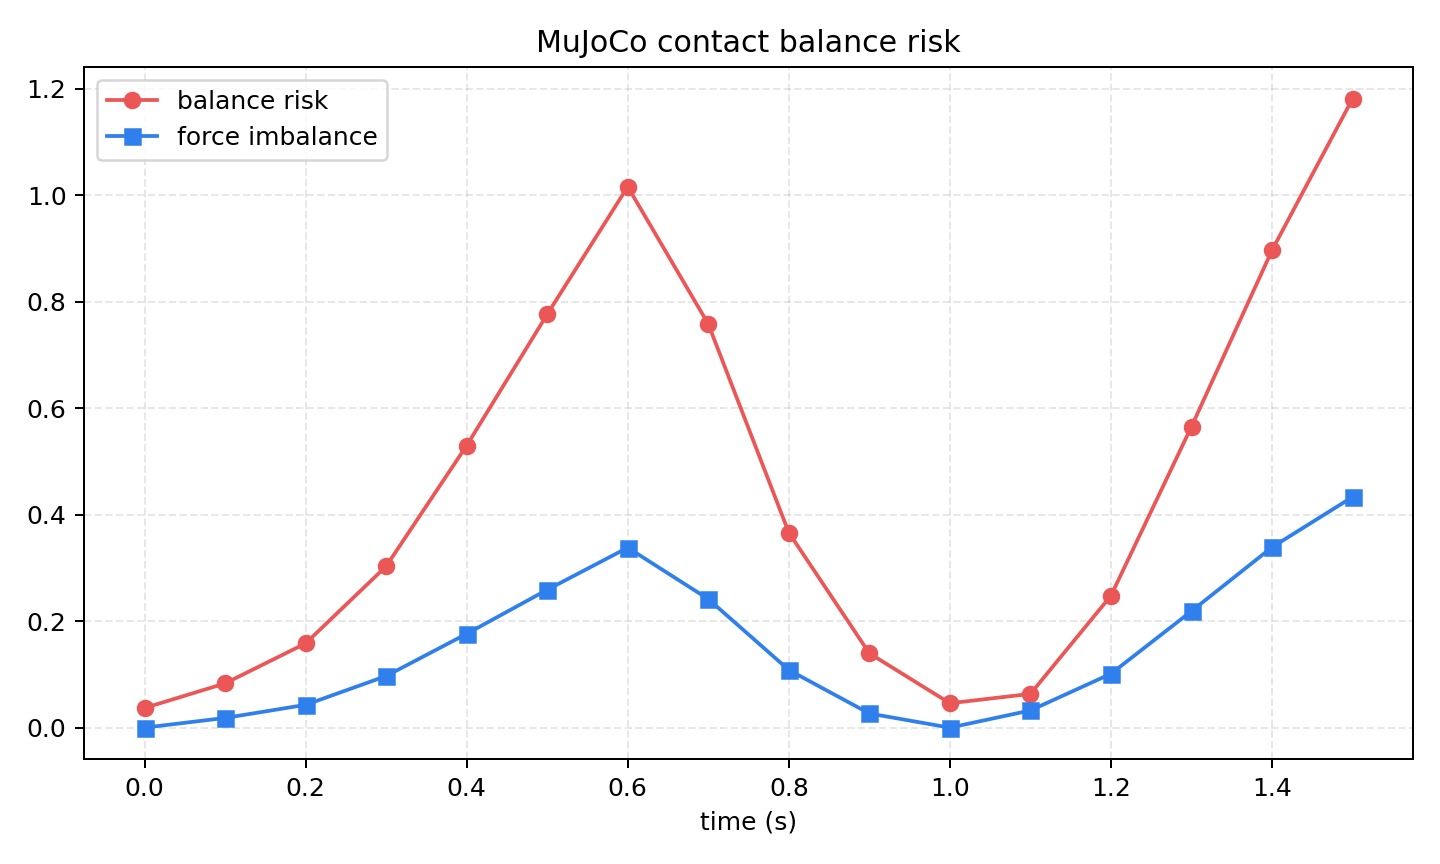
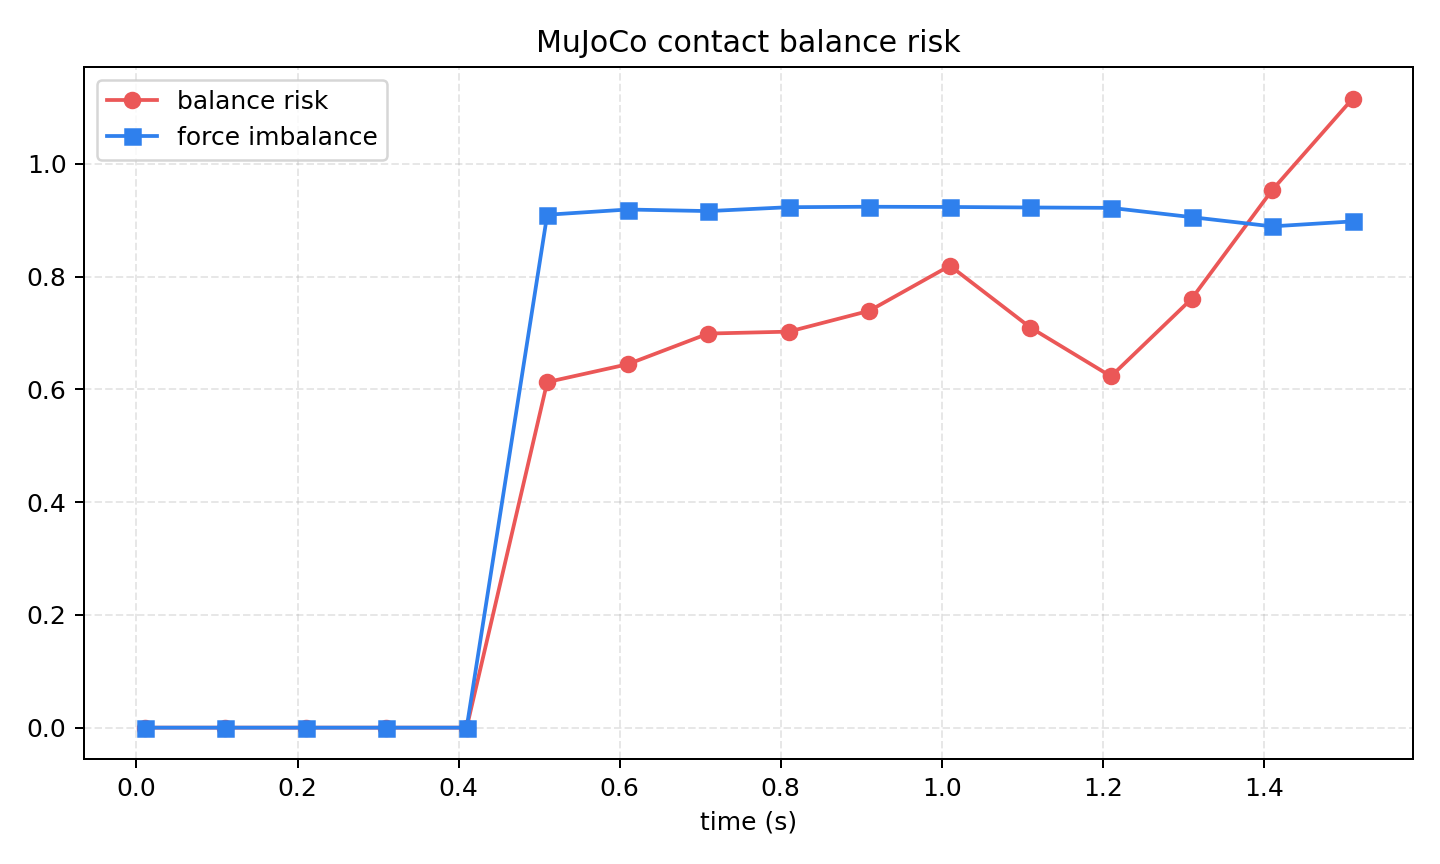
Generate contact balance data with MuJoCo Python

diff --git a/src/mujoco_contact_balance_analyzer/generate_mujoco_contact_data.py b/src/mujoco_contact_balance_analyzer/generate_mujoco_contact_data.py
@@ -1,0 +1,80 @@
+"""Generate contact-balance data by stepping the MuJoCo MJCF model.
+
+This script requires the official ``mujoco`` Python package. It loads
+``mujoco_quadruped_balance.xml``, steps the simulator, and exports MuJoCo
+``sensordata`` plus ``cfrc_ext``-style contact force records.
+"""
+
+from __future__ import annotations
+
+import argparse
+import csv
+from pathlib import Path
+
+import numpy as np
+
+
+HERE = Path(__file__).resolve().parent
+MJCF = HERE / "sample_data" / "mujoco_quadruped_balance.xml"
+OUT = HERE / "sample_data" / "mujoco_sensor_export.csv"
+
+
+def generate(output: Path = OUT, model_path: Path = MJCF, steps: int = 160, stride: int = 10) -> Path:
+    import mujoco
+
+    model = mujoco.MjModel.from_xml_path(str(model_path))
+    data = mujoco.MjData(model)
+
+    left_front = mujoco.mj_name2id(model, mujoco.mjtObj.mjOBJ_BODY, "left_front_foot")
+    right_front = mujoco.mj_name2id(model, mujoco.mjtObj.mjOBJ_BODY, "right_front_foot")
+    left_rear = mujoco.mj_name2id(model, mujoco.mjtObj.mjOBJ_BODY, "left_rear_foot")
+    right_rear = mujoco.mj_name2id(model, mujoco.mjtObj.mjOBJ_BODY, "right_rear_foot")
+
+    data.qpos[:7] = np.array([0.0, 0.0, 0.535, 1.0, 0.0, 0.0, 0.0])
+    rows = []
+    for step in range(steps):
+        if 45 <= step < 75:
+            data.xfrc_applied[1, 0] = 38.0
+            data.xfrc_applied[1, 1] = 22.0
+        elif 115 <= step < 145:
+            data.xfrc_applied[1, 0] = -34.0
+            data.xfrc_applied[1, 1] = -28.0
+        else:
+            data.xfrc_applied[:] = 0.0
+        mujoco.mj_step(model, data)
+        if step % stride == 0:
+            qmat = np.zeros(9)
+            mujoco.mju_quat2Mat(qmat, data.qpos[3:7])
+            roll_rate = float(data.qvel[3])
+            rows.append({
+                "time_s": round(float(data.time), 3),
+                "sensordata_com_x": round(float(data.sensordata[0]), 5),
+                "sensordata_com_y": round(float(data.sensordata[1]), 5),
+                "sensordata_com_z": round(float(data.sensordata[2]), 5),
+                "cfrc_lf_z": round(abs(float(data.sensordata[5])), 5),
+                "cfrc_rf_z": round(abs(float(data.sensordata[8])), 5),
+                "cfrc_lr_z": round(abs(float(data.sensordata[11])), 5),
+                "cfrc_rr_z": round(abs(float(data.sensordata[14])), 5),
+                "qvel_roll": round(roll_rate, 5),
+                "solver_niter": int(data.solver_niter[0]),
+            })
+
+    output.parent.mkdir(parents=True, exist_ok=True)
+    with output.open("w", newline="", encoding="utf-8") as f:
+        writer = csv.DictWriter(f, fieldnames=list(rows[0].keys()))
+        writer.writeheader()
+        writer.writerows(rows)
+    return output
+
+
+def main() -> None:
+    parser = argparse.ArgumentParser()
+    parser.add_argument("--output", type=Path, default=OUT)
+    parser.add_argument("--model", type=Path, default=MJCF)
+    args = parser.parse_args()
+    path = generate(args.output, args.model)
+    print(f"generated {path}")
+
+
+if __name__ == "__main__":
+    main()

diff --git a/src/mujoco_contact_balance_analyzer/contact_balance.py b/src/mujoco_contact_balance_analyzer/contact_balance.py
@@ -17,6 +17,21 @@ def load_rows(path: Path=DATA) -> list[dict[str,float]]:
 def load_sensor_rows(path: Path=SENSOR_DATA) -> list[dict[str,float]]:
     with path.open(newline="",encoding="utf-8") as f: return [{k:float(v) for k,v in r.items()} for r in csv.DictReader(f)]
 
+def sensor_rows_to_balance_rows(rows: list[dict[str,float]]) -> list[dict[str,float]]:
+    converted=[]
+    for r in rows:
+        converted.append({
+            "time_s": r["time_s"],
+            "left_front_n": r["cfrc_lf_z"],
+            "right_front_n": r["cfrc_rf_z"],
+            "left_rear_n": r["cfrc_lr_z"],
+            "right_rear_n": r["cfrc_rr_z"],
+            "com_x_m": r["sensordata_com_x"],
+            "com_y_m": r["sensordata_com_y"],
+            "torso_roll_deg": r["qvel_roll"] * 10.0,
+        })
+    return converted
+
 def parse_mjcf(path: Path=MJCF) -> dict[str, int | str]:
     root=ET.parse(path).getroot()
     sensors=root.findall(".//sensor/*")
@@ -27,7 +42,8 @@ def analyze(rows: list[dict[str,float]]) -> list[dict[str,float|str]]:
     out=[]
     for r in rows:
         left=r["left_front_n"]+r["left_rear_n"]; right=r["right_front_n"]+r["right_rear_n"]; total=left+right
-        imbalance=abs(left-right)/total; com_shift=np.hypot(r["com_x_m"],r["com_y_m"]); roll=abs(r["torso_roll_deg"])
+        imbalance=0.0 if total <= 1e-9 else abs(left-right)/total
+        com_shift=np.hypot(r["com_x_m"],r["com_y_m"]); roll=abs(r["torso_roll_deg"])
         risk=0.42*min(imbalance/0.32,1.4)+0.32*min(com_shift/0.30,1.3)+0.26*min(roll/10,1.4)
         action="recover_posture" if risk>.72 else "adjust_support" if risk>.45 else "stable_walk"
         out.append({**r,"left_force_n":round(left,2),"right_force_n":round(right,2),"force_imbalance":round(imbalance,4),"balance_risk":round(float(risk),4),"balance_action":action})
@@ -44,10 +60,10 @@ def plot(rows: list[dict[str,float|str]], sensor_rows: list[dict[str,float]], ou
     plt.figure(figsize=(6.4,5.6)); plt.plot(foot[:,0],foot[:,1],color="#111827",label="MuJoCo foot support polygon"); plt.scatter(com[:,0],com[:,1],c=risk,cmap="inferno",s=85,label="COM projection"); plt.colorbar(label="balance risk"); plt.xlabel("world x (m)"); plt.ylabel("world y (m)"); plt.title("MuJoCo sensor replay: COM inside support polygon"); plt.grid(True,linestyle="--",alpha=.3); plt.legend(); plt.tight_layout(); plt.savefig(p,dpi=180); plt.close(); paths.append(p); return paths
 
 def run(output: Path) -> dict[str,object]:
-    rows=analyze(load_rows()); sensor_rows=load_sensor_rows(); mjcf=parse_mjcf(); files=plot(rows,sensor_rows,output); csv_path=output/"mujoco_contact_balance_scores.csv"
+    sensor_rows=load_sensor_rows(); rows=analyze(sensor_rows_to_balance_rows(sensor_rows)); mjcf=parse_mjcf(); files=plot(rows,sensor_rows,output); csv_path=output/"mujoco_contact_balance_scores.csv"
     with csv_path.open("w",newline="",encoding="utf-8") as f: w=csv.DictWriter(f,fieldnames=list(rows[0].keys())); w.writeheader(); w.writerows(rows)
     files.append(csv_path); risk=np.array([float(r["balance_risk"]) for r in rows])
-    report={"source":"MuJoCo MJCF model, cfrc_ext contact force log and sensordata export","mjcf_model":mjcf["model"],"sensor_count":mjcf["sensor_count"],"contact_geom_count":mjcf["contact_geom_count"],"records":len(rows),"max_balance_risk":round(float(risk.max()),4),"recover_posture_frames":sum(r["balance_action"]=="recover_posture" for r in rows),"generated_files":[p.name for p in files]}
+    report={"source":"MuJoCo MJCF model stepped by mujoco Python, sensordata force sensors export","mjcf_model":mjcf["model"],"sensor_count":mjcf["sensor_count"],"contact_geom_count":mjcf["contact_geom_count"],"records":len(rows),"max_balance_risk":round(float(risk.max()),4),"recover_posture_frames":sum(r["balance_action"]=="recover_posture" for r in rows),"generated_files":[p.name for p in files]}
     (output/"metrics.json").write_text(json.dumps(report,indent=2,ensure_ascii=False),encoding="utf-8"); return report
 
 def main() -> None:

diff --git a/src/mujoco_contact_balance_analyzer/tests/test_contact_balance.py b/src/mujoco_contact_balance_analyzer/tests/test_contact_balance.py
@@ -2,11 +2,13 @@ from __future__ import annotations
 import sys, tempfile
 from pathlib import Path
 PROJECT=Path(__file__).resolve().parents[1]; sys.path.insert(0,str(PROJECT))
-from contact_balance import analyze, load_rows, parse_mjcf, run
+from contact_balance import analyze, load_sensor_rows, parse_mjcf, run, sensor_rows_to_balance_rows
 def test_balance_action() -> None:
-    rows=analyze(load_rows()); assert any(r["balance_action"]=="recover_posture" for r in rows)
+    sensor_rows=load_sensor_rows()
+    assert max(r["cfrc_lf_z"] for r in sensor_rows) > 1.0
+    rows=analyze(sensor_rows_to_balance_rows(sensor_rows)); assert any(r["balance_action"]=="recover_posture" for r in rows)
     mjcf=parse_mjcf(); assert mjcf["sensor_count"] >= 5; assert mjcf["contact_geom_count"] == 4
 def test_exports() -> None:
     with tempfile.TemporaryDirectory() as tmp:
-        m=run(Path(tmp)); assert m["source"] == "MuJoCo MJCF model, cfrc_ext contact force log and sensordata export"; assert m["recover_posture_frames"]>0; assert (Path(tmp)/"mujoco_contact_balance_curve.png").exists(); assert (Path(tmp)/"mujoco_support_polygon_replay.png").exists()
+        m=run(Path(tmp)); assert m["source"] == "MuJoCo MJCF model stepped by mujoco Python, sensordata force sensors export"; assert m["recover_posture_frames"]>0; assert (Path(tmp)/"mujoco_contact_balance_curve.png").exists(); assert (Path(tmp)/"mujoco_support_polygon_replay.png").exists()
 if __name__=="__main__": test_balance_action(); test_exports(); print("mujoco_contact_balance_analyzer tests passed")

diff --git a/src/mujoco_contact_balance_analyzer/README.md b/src/mujoco_contact_balance_analyzer/README.md
@@ -1,16 +1,20 @@
 # MuJoCo 足底接触力平衡分析模块
 
-本项目使用 MuJoCo MJCF 模型、`cfrc_ext` 接触力导出日志和 `sensordata` 质心位置记录，分析左右支撑力差、质心偏移和躯干横滚角对机器人稳定性的影响，并生成姿态恢复建议。
+本项目使用 MuJoCo MJCF 模型和 `sensordata` 中的 force sensor 接触力导出日志，分析左右支撑力差、质心偏移和躯干横滚角对机器人稳定性的影响，并生成姿态恢复建议。
 
 ## 主要内容
 - 读取 MuJoCo MJCF 模型 `mujoco_quadruped_balance.xml`。
-- 读取 MuJoCo `cfrc_ext` 足底接触力和 `sensordata` 质心状态数据。
+- 运行 `generate_mujoco_contact_data.py` 调用官方 `mujoco` 包 step 仿真并导出数据。
+- 读取 MuJoCo `sensordata` 中的四个足底 force sensor 和质心状态数据。
 - 计算左右支撑力不平衡、质心偏移和综合平衡风险。
 - 输出 stable_walk / adjust_support / recover_posture 三类动作建议。
 - 生成平衡风险曲线、左右接触力分布图和支撑多边形/质心投影回放图。
 
 ## 运行
 ```bash
+python src/mujoco_contact_balance_analyzer/generate_mujoco_contact_data.py
 python src/mujoco_contact_balance_analyzer/contact_balance.py --output docs/pr_assets/mujoco_contact_balance_analyzer
 python src/mujoco_contact_balance_analyzer/tests/test_contact_balance.py
 ```
+
+其中 `generate_mujoco_contact_data.py` 会调用官方 `mujoco` Python 包加载 MJCF 模型并重新导出 `mujoco_sensor_export.csv`，因此数据来自 MuJoCo 仿真 step 过程。